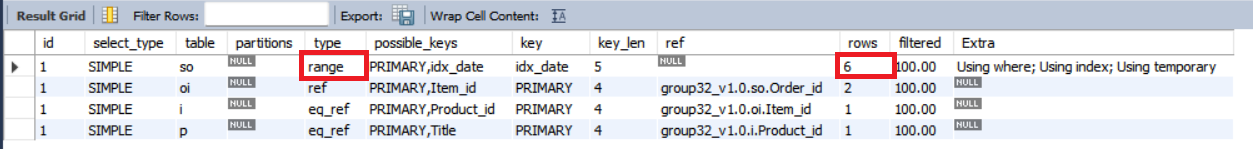
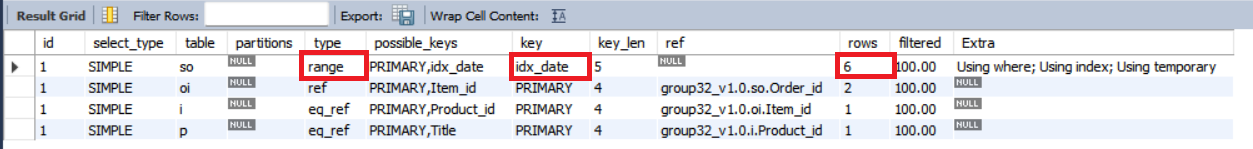
Add a table to compare the results

Changed region(s): [[0.4046, 0.349, 0.498, 0.5638]]

diff --git a/INDEXES.md b/INDEXES.md
@@ -13,4 +13,8 @@ The `idx_date` index on the `shop_order` table's `Date` column improves query pe
 ![alt text](https://github.com/irudachirath/E-commerce_platform_doc/blob/main/after_index.png?raw=true)
 
 
-
+| Parameter          | Before Indexing   | After Indexing    | Reason for Difference                                    |
+|--------------------|-------------------|-------------------|----------------------------------------------------------|
+| **Index Type**     | ALL (Full Scan)   | Range             | The new index allows the DB to perform a range scan, which is more efficient than a full table scan for date-based queries. |
+| **Rows Scanned**   | 24                | 6                 | With the new index, the DB can directly access the relevant rows without scanning the entire table. |
+| **Key Used**       | NULL              | idx_date          | Before, no specific index was used for the date-based query. After indexing, the `idx_date` index is leveraged to optimize the query. |
